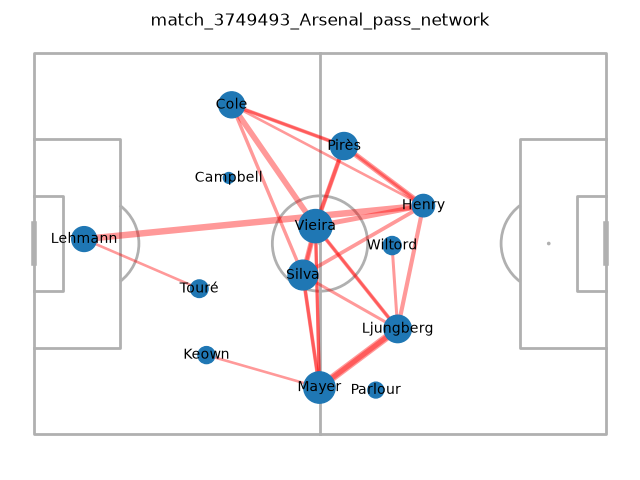
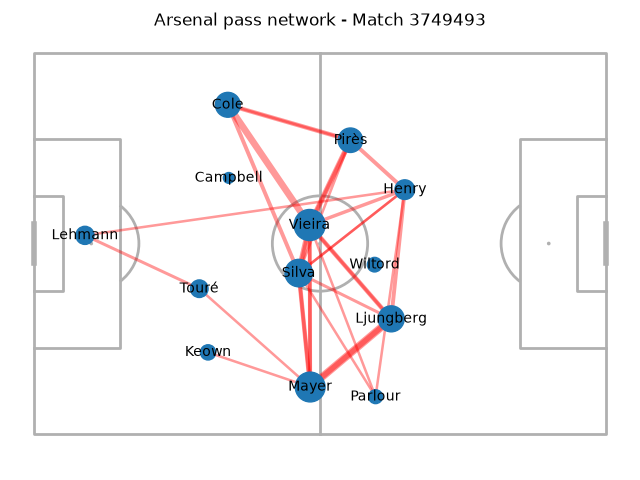
moving outputs into a single folder,

diff --git a/src/main.py b/src/main.py
@@ -1,18 +1,28 @@
 from match_report import export_report, match_report, print_match_report
 from visualisations import plot_graphs
-
-
+import argparse
+import os
 def main():
-    match_id = 3749493
+    parser = argparse.ArgumentParser()
+    parser.add_argument("--match-id", type=int, required=True)
+    args = parser.parse_args()
 
-    report = match_report(match_id)
+    match_id = args.match_id
+    try:
+        report = match_report(match_id)
+    except Exception:
+        print(f'Could not load match {match_id}. Check that it exists in Statsbomb open data')
+        return
+    output_dir = f"outputs/match_{match_id}"
+    os.makedirs(output_dir, exist_ok=True)
 
+    export_report(report, output_dir=output_dir)
     print_match_report(report)
-    export_report(report)
 
     plot_graphs(
         match_id,
         report,
+        output_dir=output_dir,
         team_stats=True,
         xG_race=True,
         shot_map=True,

diff --git a/src/visualisations.py b/src/visualisations.py
@@ -3,7 +3,7 @@ import os
 import pandas as pd
 from mplsoccer import Pitch
 
-def plot_team_stats(report, output_dir="outputs"):
+def plot_team_stats(report, output_dir):
     match_id = report["match_id"]
     os.makedirs(output_dir, exist_ok=True)
     normalised_stats_by_metric = normalise_stats_by_metric(report)
@@ -57,7 +57,7 @@ def normalise_stats_by_metric(report):
         }
     })
     return pd.DataFrame(stats_by_metric).T
-def plot_pass_network(match_id, report, team, output_dir = 'outputs'):
+def plot_pass_network(match_id, report, team, output_dir):
     pitch = Pitch(pitch_type="statsbomb")
     fig, ax = pitch.draw()
     pass_network = report["pass_network"][team]
@@ -73,14 +73,14 @@ def plot_pass_network(match_id, report, team, output_dir = 'outputs'):
     max_line_width = pass_edges['pass_count'].max()
     for _,row in pass_edges.iterrows():
         ax.plot((row['passer_x'] ,row['recipient_x']),(row['passer_y'], row['recipient_y']), lw = 0.5 + row['pass_count']*5/max_line_width, color = 'red', alpha = 0.4, zorder = 1)
-    plt.title(f'match_{match_id}_{team}_pass_network')
+    plt.title(f'{team} pass network - Match {match_id}')
     plt.ylabel('')
     plt.xlabel('')
     plt.tight_layout()
     plt.savefig(pass_network_data_path)
     plt.show()
     plt.close(fig)
-def plot_shot_map(match_id, team, report, output_dir = 'outputs'):
+def plot_shot_map(match_id, team, report, output_dir):
     pitch = Pitch(pitch_type="statsbomb", half = True)
     fig, ax = pitch.draw()
     shot_map_path = os.path.join(output_dir, f'match_{match_id}_{team}_shot_map.png')
@@ -92,12 +92,12 @@ def plot_shot_map(match_id, team, report, output_dir = 'outputs'):
     ax.legend(loc="upper left")
     plt.ylabel('')
     plt.xlabel('')
-    plt.title(f'Shot Map {team} - match {match_id}')
+    plt.title(f'{team} shot Map - match {match_id}')
     plt.tight_layout()
     plt.savefig(shot_map_path)
     plt.show()
     plt.close(fig)
-def plot_xG_race(match_id, report, output_dir = 'outputs'):
+def plot_xG_race(match_id, report, output_dir):
     team1, team2 = report["teams"]
     xG_race = report['xG_timeline'].copy()
     xG_race['time'] = (xG_race['minute'] + (xG_race['second']/60))
@@ -108,13 +108,13 @@ def plot_xG_race(match_id, report, output_dir = 'outputs'):
         ax.step(team_data["time"],team_data["cumulative_xG"],where="post",label=team,)
     xG_race_path = os.path.join(output_dir, f'match_{match_id}_xG_race.png')
     ax.set_ylabel("Cumulative xG")
-    ax.set_title(f"xG race between teams - match {match_id}")
+    ax.set_title(f"xG race - match {match_id}")
     ax.legend()
     plt.tight_layout()
     plt.savefig(xG_race_path)
     plt.show()
     plt.close(fig)
-def plot_graphs(match_id, report, output_dir = 'outputs', team_stats = False, xG_race = False, shot_map = False, pass_network = False):
+def plot_graphs(match_id, report, output_dir, team_stats = False, xG_race = False, shot_map = False, pass_network = False):
     os.makedirs(output_dir, exist_ok=True)
     team1, team2 = report['teams']
     if team_stats:

diff --git a/src/analytics.py b/src/analytics.py
@@ -63,21 +63,18 @@ def get_shot_map_data(events, team):
     shots = shots[['player', 'team', 'minute','x','y', 'shot_statsbomb_xg', 'shot_outcome']].copy()
     return shots
 def get_pass_combinations(events, team):
-    events = events[events['team'] == team]
-    passes = events[events['type'] == 'Pass']
+    passes = events.loc[(events['team'] == team) & (events['type'] == 'Pass') & (events['pass_recipient'].notna()) & (events['pass_outcome'].isna())]
     passes = passes[['team', 'player', 'pass_recipient']]
     pass_combinations = passes.value_counts()
     pass_combinations = pass_combinations.reset_index(name = 'pass_count')
     pass_combinations = pass_combinations.rename(columns={'player':'passer', 'pass_recipient':'recipient'})
     pass_combinations = pass_combinations.sort_values(['team', 'pass_count'], ascending=[True, False])
-    pass_combinations = pass_combinations[pass_combinations["pass_count"] >= 5].copy()
+    pass_combinations = pass_combinations[pass_combinations["pass_count"] > 3].copy()
     return pass_combinations
 def get_pass_network_data(events, lineups, team):
     lineups = lineups[team]
     lineup_numbers = lineups[['player_name', 'jersey_number']].copy()
-    events_by_team = events[events['team'] == team]
-    passes = events_by_team[events_by_team['type'] == 'Pass']
-    passes = passes.dropna(subset = ['pass_recipient'])
+    passes = events.loc[(events['team'] == team) & (events['type'] == 'Pass') & (events['pass_recipient'].notna()) & (events['pass_outcome'].isna())]
     pass_network = passes[['team', 'player', 'location']].copy()
     pass_network['x'] = pass_network['location'].str[0]
     pass_network['y'] = pass_network['location'].str[1]

diff --git a/src/match_report.py b/src/match_report.py
@@ -145,9 +145,9 @@ def print_match_report(report):
     print(f"- Shots On Target: {shot_summary.loc[team2, "shots_on_target"]}")
     print(f"- Shots Off Target: {shot_summary.loc[team2, "shots_off_target"]}")
     print(f"- Shots Blocked: {shot_summary.loc[team2, "shots_blocked"]}")
-def export_report(report, output_dir="outputs"):
-    os.makedirs(output_dir, exist_ok=True)
+def export_report(report, output_dir):
     match_id = report["match_id"]
+    os.makedirs(output_dir, exist_ok=True)
     team1, team2 = report['teams']
     team_stats_path = os.path.join(output_dir, f"match_{match_id}_team_stats.csv")
     shot_summary_path = os.path.join(output_dir, f"match_{match_id}_shot_summary.csv")

diff --git a/README.md b/README.md
@@ -41,7 +41,7 @@ The project converts raw StatsBomb events into readable match reports and visual
 
 ### Expected-goals race
 
-![Expected-goals race](docs/images/xg_race.png)
+![Expected-goals race](docs/images/xG_race.png)
 
 ### Shot map
 
@@ -59,8 +59,8 @@ The project converts raw StatsBomb events into readable match reports and visual
 Clone the repository:
 
 ```bash
-git clone <repository-url>
-cd <repository-name>
+git clone https://github.com/bjc74/Fotmob_Project.git
+cd Fotmob_Project
 ```
 
 Create and activate a virtual environment:
@@ -106,7 +106,7 @@ Basic stats:
 Everton:
 - Shots: 15
 - Goals: 1
-- XG: 1.27
+- xG: 1.27
 - Passes: 381
 - Carries: 235
 - Pressures: 271
@@ -115,7 +115,7 @@ Everton:
 Arsenal:
 - Shots: 14
 - Goals: 2
-- XG: 2.12
+- xG: 2.12
 - Passes: 422
 - Carries: 342
 - Pressures: 117
@@ -129,8 +129,8 @@ Gilberto Aparecido da Silva     178
               Thierry Henry     178
  Laureano Bisan-Etame Mayer     165
 
-Top XG shots:
-          player    team  minute  shot_statsbomb_xg shot_outcome
+Top xG shots:
+          player    team  minute  shot_statsbomb_xG shot_outcome
    Thierry Henry Arsenal      34           0.783500         Goal
    Nick Chadwick Everton       6           0.421668        Saved
   Patrick Vieira Arsenal      57           0.378841        Saved
@@ -153,7 +153,7 @@ Gilberto Aparecido da Silva Arsenal     39        0    49     0                 
 Shot Summary:
 Everton:
 - Total Shots: 15
-- XG: 1.27
+- xG: 1.27
 - Goals: 1
 - Shots On Target: 5
 - Shots Off Target: 5
@@ -161,7 +161,7 @@ Everton:
 
 Arsenal: 
 - Total Shots: 14
-- XG: 2.12
+- xG: 2.12
 - Goals: 2
 - Shots On Target: 4
 - Shots Off Target: 6
@@ -194,7 +194,7 @@ Football_match_analytics/
 │       ├── normalised_stats_by_team.png
 │       ├── pass_network.png
 │       ├── shot_map.png
-│       └── xg_race.png
+│       └── xG_race.png
 ├── src/
 │   ├── analytics.py
 │   ├── main.py